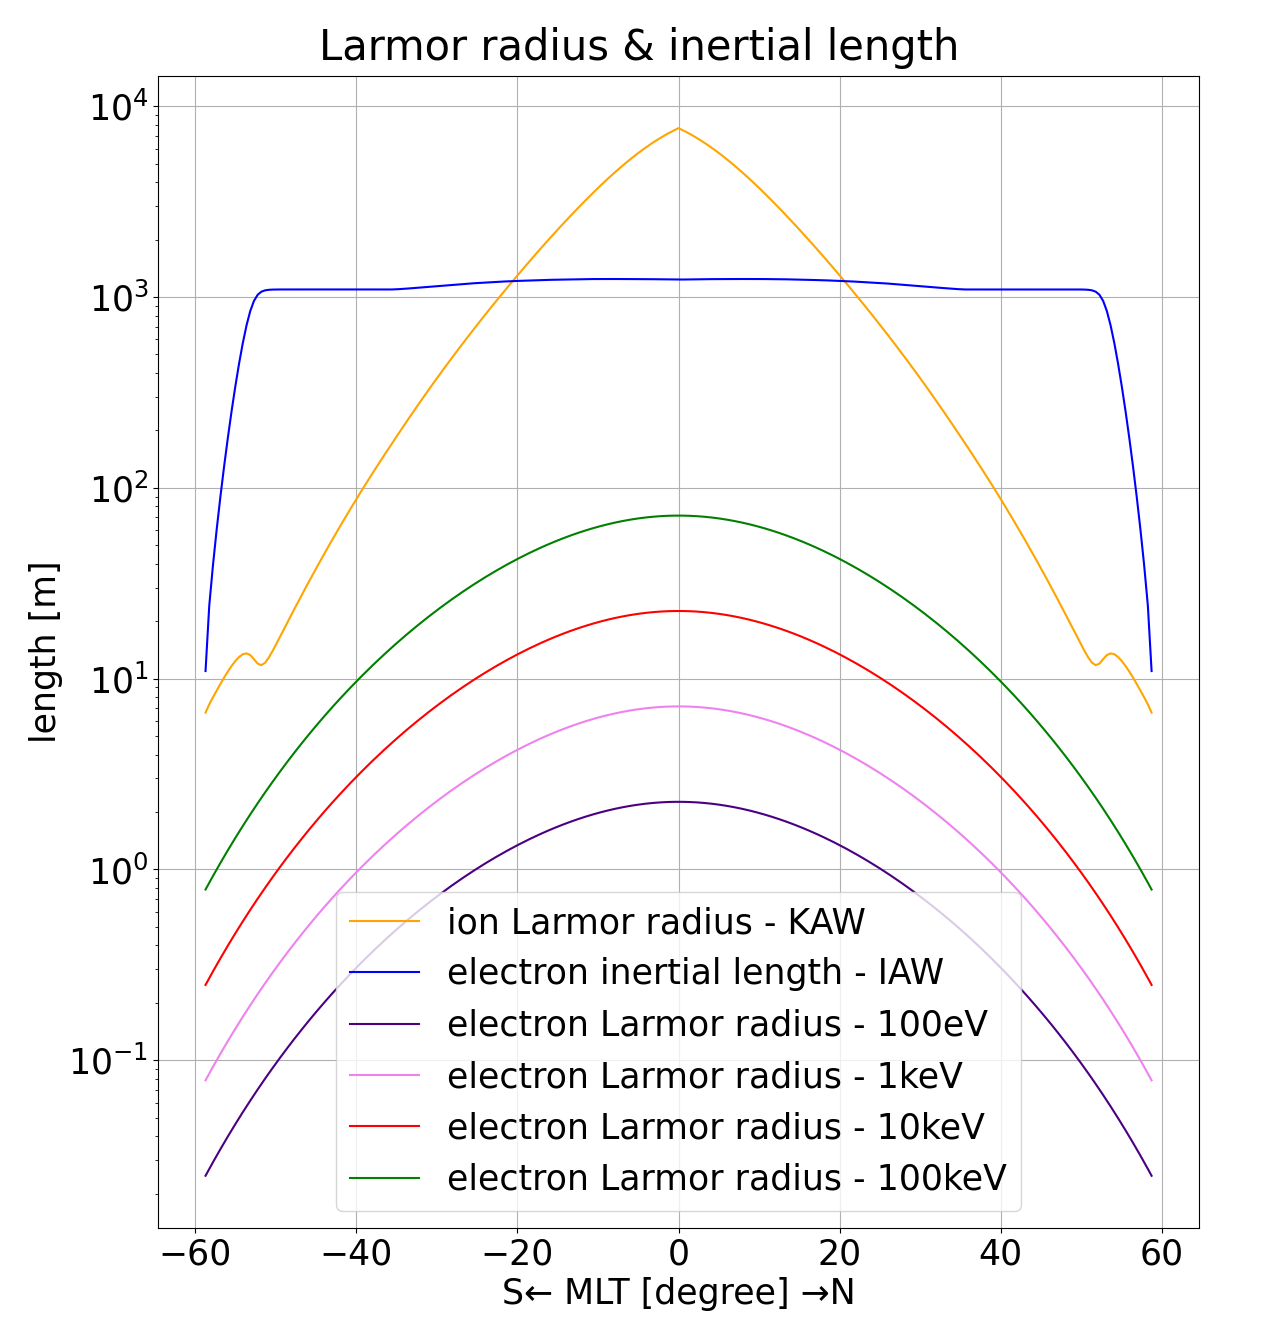
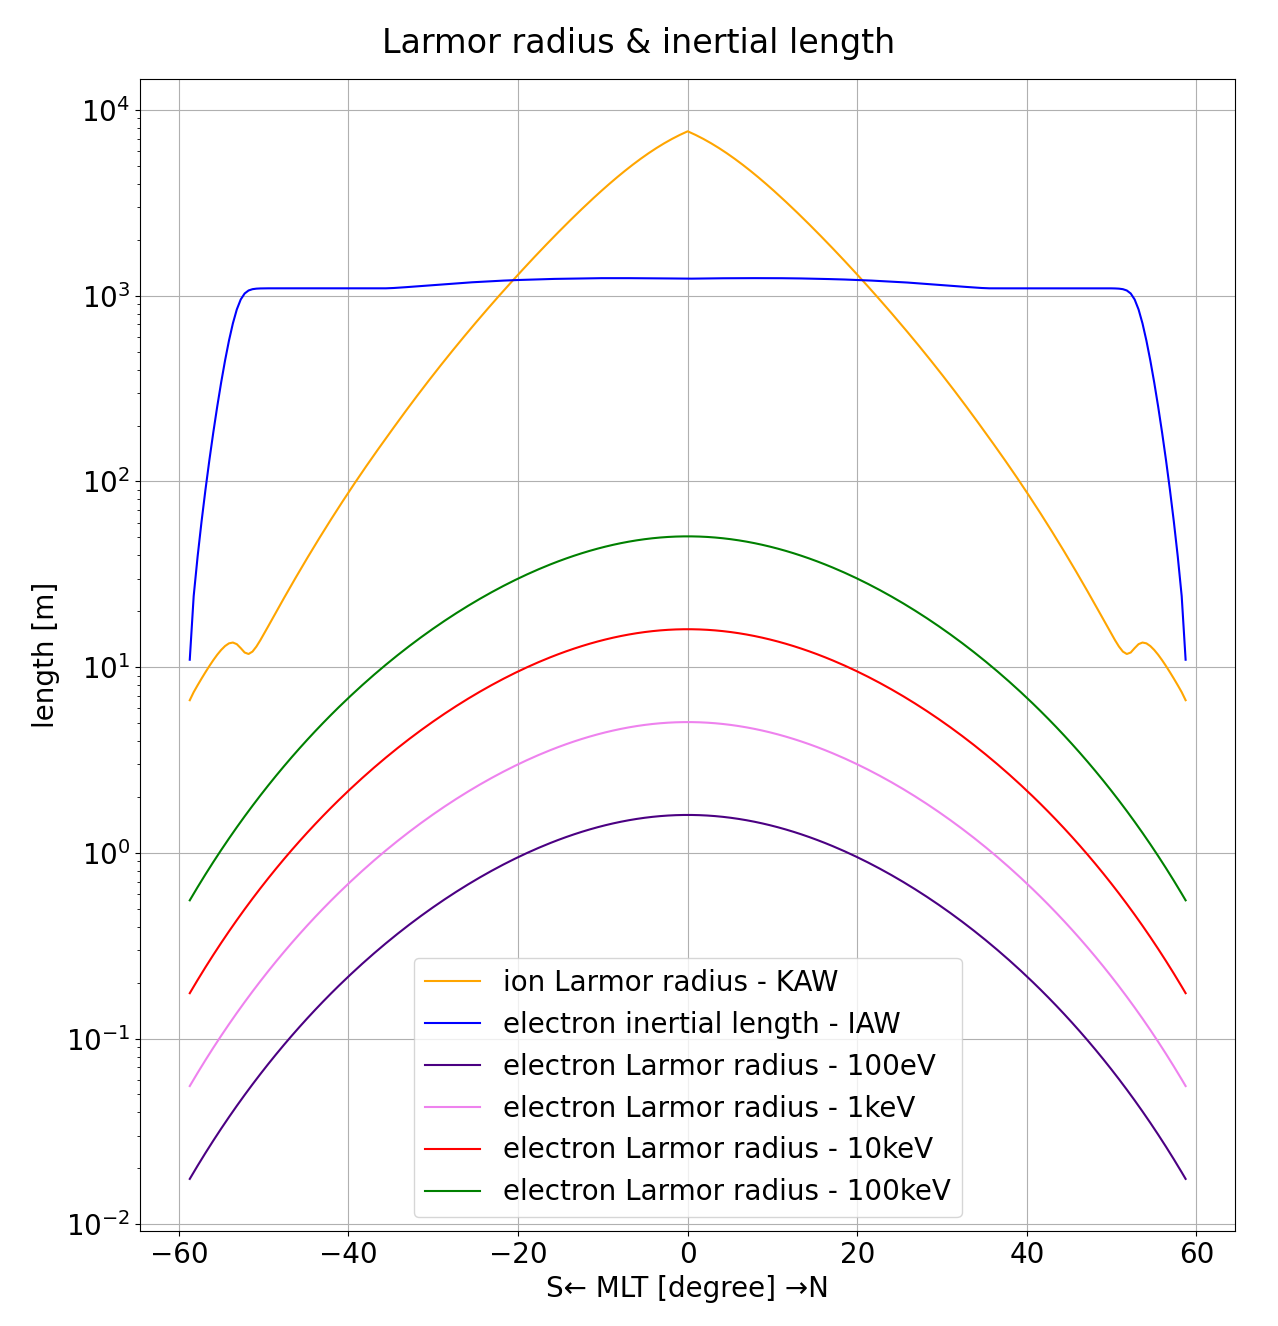
電子Larmor半径に相対論効果付与

diff --git a/pds_kai/python_draw/codes/pds_E_kai_plot.py b/pds_kai/python_draw/codes/pds_E_kai_plot.py
@@ -8,7 +8,7 @@ Created on Wed Feb  3 16:18:06 2021
 import numpy as np
 import matplotlib.pyplot as plt
 
-data = np.genfromtxt(r"pds_kai/pds_E_kai/pds_E_kai_5_all.csv", delimiter=',', unpack=True)
+data = np.genfromtxt(r"pds_kai/pds_E_kai_L=15/pds_E_kai_L=15_2_all.csv", delimiter=',', unpack=True)
 
 channel = 6
 #1:静電ポテンシャル, 2:数密度, 3:Alfven速度, 4:圧力, 5:ベータ値, 6:Larmor半径&慣性長
@@ -18,7 +18,7 @@ if (channel == 1):
     x = np.rad2deg(x)
     y = data[3, :]
     fig = plt.figure()
-    plt.rcParams["font.size"] = 25
+    plt.rcParams["font.size"] = 20
     ax = fig.add_subplot(111, xlabel='S← MLT [degree] →N', ylabel='Electrostatic Potential [V]')    
     ax.plot(x, y)
     fig.suptitle('Electrostatic Potential')
@@ -31,7 +31,7 @@ if (channel == 2):
     x = np.rad2deg(x)
     y = data[4:16, :]*1.E-6
     fig = plt.figure()
-    plt.rcParams["font.size"] = 25
+    plt.rcParams["font.size"] = 20
     ax = fig.add_subplot(111, xlabel='S← MLT [degree] →N', ylabel='Number Density [cm^-3]', yscale='log', ylim=(1.E-2, 1.E6))   
     ax.plot(x, y[0, :]+y[5, :], c='orange', label='H+(ionosphere)')
     ax.plot(x, y[1, :]+y[6, :], c='red', label='He+')
@@ -50,7 +50,7 @@ if (channel == 3):
     x = np.rad2deg(x)
     y = data[21, :]
     fig = plt.figure()
-    plt.rcParams["font.size"] = 25
+    plt.rcParams["font.size"] = 20
     ax = fig.add_subplot(111, xlabel='S← MLT [degree] →N', ylabel='Alfven Speed [/(Light Speed)]')
     ax.plot(x, y)
     fig.suptitle('Alfven Speed')
@@ -62,7 +62,7 @@ if (channel == 4):
     x = np.rad2deg(x)
     y = data[70:79]*1.E9
     fig = plt.figure()
-    plt.rcParams["font.size"] = 25
+    plt.rcParams["font.size"] = 20
     ax1 = fig.add_subplot(131, title='perpendicular')
     ax1.set_xlabel('S← MLT [degree] →N')
     ax1.set_ylabel('Pressure [nPa]')
@@ -99,7 +99,7 @@ if (channel == 5):
     y = data[82, :]
     z = data[88, :]
     fig = plt.figure()
-    plt.rcParams["font.size"] = 25
+    plt.rcParams["font.size"] = 20
     ax = fig.add_subplot(111, xlabel='S← MLT [degree] →N', ylabel='beta', yscale='log')
     ax.plot(x, y, c='orange', label='beta')
     ax.plot(x, z, c='dimgrey', label='me/mi', linestyle='-.')
@@ -113,21 +113,27 @@ if (channel == 6):
     x = np.rad2deg(x)
     y = data[89:93, :]
     BB = data[2][:]
-    elr1 = np.sqrt(2.*0.1*9.1093837015E-31/1.602176634E-19)/BB
-    elr2 = np.sqrt(2.*1.*9.1093837015E-31/1.602176634E-19)/BB
-    elr3 = np.sqrt(2.*10.*9.1093837015E-31/1.602176634E-19)/BB
-    elr4 = np.sqrt(2.*100.*9.1093837015E-31/1.602176634E-19)/BB
+    me = 9.1093837015E-31
+    ee = 1.602176634E-19
+    Ke = np.array([0.1, 1.0, 10., 100.])
+    Ke = Ke*ee
+    cc = 2.99792458E+08
+    length = len(BB)
+    elr = np.zeros([4, length])
+    for i in range(length):
+        for j in range(4):
+            elr[j, i] = 1./cc/ee/BB[i]*np.sqrt(Ke[j]*(me*cc*cc+Ke[j]))
     fig = plt.figure()
-    plt.rcParams["font.size"] = 25
+    plt.rcParams["font.size"] = 20
     ax = fig.add_subplot(111, xlabel='S← MLT [degree] →N', ylabel='length [m]', yscale='log')   
     ax.plot(x, y[0, :], c='orange', label='ion Larmor radius - KAW')
     #ax.plot(x, y[1, :], c='deepskyblue', label='electron Larmor radius')
     #ax.plot(x, y[2, :], c='red', label='ion inertial legth')
     ax.plot(x, y[3, :], c='blue', label='electron inertial length - IAW')
-    ax.plot(x, elr1, c='indigo', label='electron Larmor radius - 100eV')
-    ax.plot(x, elr2, c='violet', label='electron Larmor radius - 1keV')
-    ax.plot(x, elr3, c='red', label='electron Larmor radius - 10keV')
-    ax.plot(x, elr4, c='green', label='electron Larmor radius - 100keV')
+    ax.plot(x, elr[0][:], c='indigo', label='electron Larmor radius - 100eV')
+    ax.plot(x, elr[1][:], c='violet', label='electron Larmor radius - 1keV')
+    ax.plot(x, elr[2][:], c='red', label='electron Larmor radius - 10keV')
+    ax.plot(x, elr[3][:], c='green', label='electron Larmor radius - 100keV')
     fig.suptitle('Larmor radius & inertial length')
     ax.grid()
     ax.legend()
